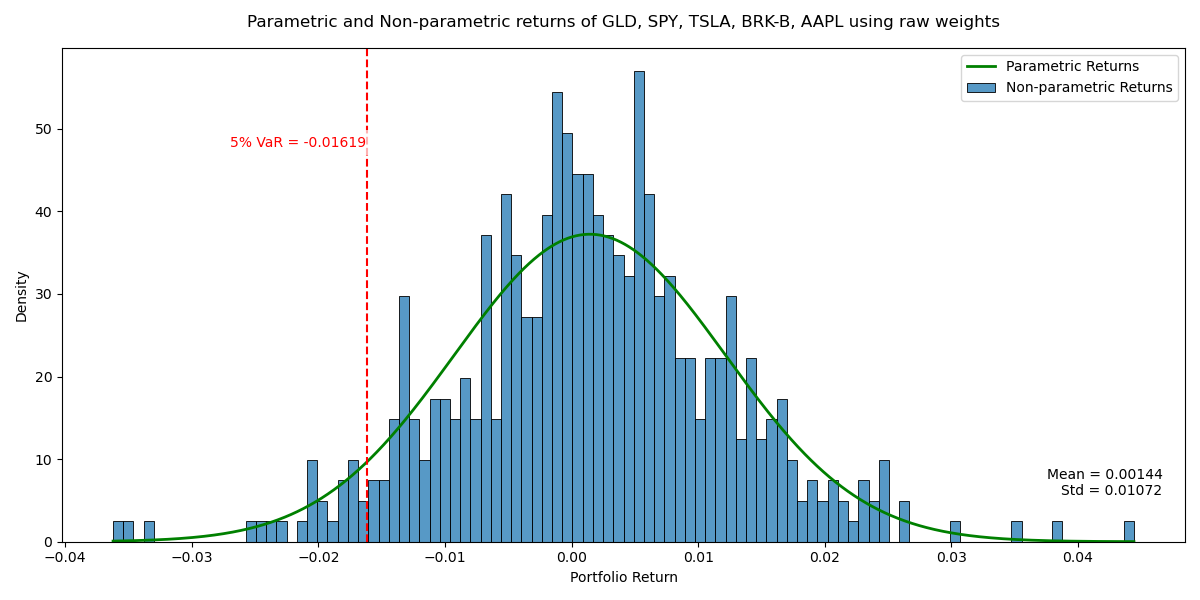
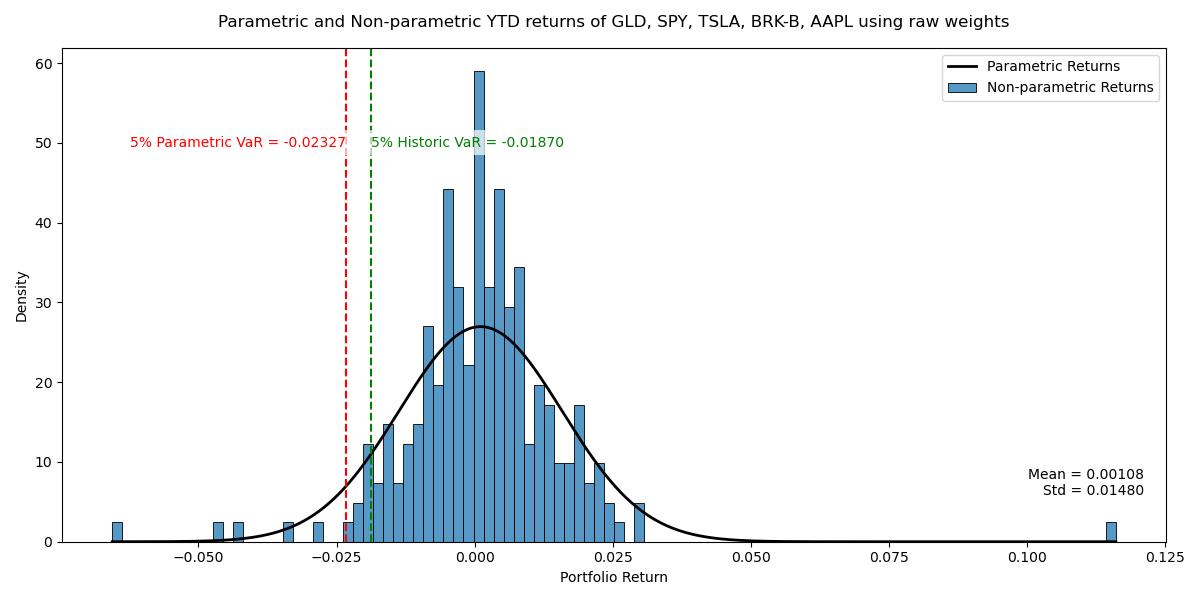
Added color zone, changed plots
Used return_test for plots instead of returns_train

diff --git a/SCRIPTS/stat_methods.py b/SCRIPTS/stat_methods.py
@@ -35,21 +35,39 @@ def parametric_backtest(returns, weights):
     ann_count = np.ceil(percent*252)
     return percent, ann_count
 
+def classify_zone(x):
+    if 0 <= x <= 4:
+        return "Green Zone"
+    elif 5 <= x <= 9:
+        return "Yellow Zone"
+    elif x >= 10:
+        return "Red Zone"
+    else:
+        return ""
+
 def varplots(returns,weights, weight_type, img_path,tickers):
     portfolio_returns = (returns * weights).sum(axis=1)
     mean = portfolio_returns.mean()
     std = portfolio_returns.std()
-    portfolio_var = mean - 1.645 * std
+    portfolio_parametric_var = mean - 1.645 * std
+    portfolio_historic_var = np.percentile(portfolio_returns, 5)
     x = np.linspace(portfolio_returns.min(), portfolio_returns.max(), 1000)
     pdf = norm.pdf(x, mean, std)
     fig, ax = plt.subplots(figsize=(12, 6))
     sns.histplot(portfolio_returns, bins=100, stat='density',label="Non-parametric Returns", ax=ax)
-    ax.plot(x, pdf, linewidth=2, color='green', label='Parametric Returns')
-    ax.axvline(portfolio_var, color='r', linestyle='dashed')
+    ax.plot(x, pdf, linewidth=2, color='black', label='Parametric Returns')
+    ax.axvline(portfolio_parametric_var, color='r', linestyle='dashed')
+    ax.axvline(portfolio_historic_var, color='g', linestyle='dashed')
     ax.text(
-        portfolio_var, ax.get_ylim()[1]*0.8,
-        f"5% VaR = {portfolio_var:.5f}",
+        portfolio_parametric_var, ax.get_ylim()[1]*0.8,
+        f"5% Parametric VaR = {portfolio_parametric_var:.5f}",
         color='r', ha='right', fontsize=10,
+        bbox=dict(facecolor='white', edgecolor='none', alpha=0.7)
+    )
+    ax.text(
+        portfolio_historic_var, ax.get_ylim()[1]*0.8,
+        f"5% Historic VaR = {portfolio_historic_var:.5f}",
+        color='g', ha='left', fontsize=10,
         bbox=dict(facecolor='white', edgecolor='none', alpha=0.7)
     )
     ax.text(
@@ -61,7 +79,7 @@ def varplots(returns,weights, weight_type, img_path,tickers):
         bbox=dict(facecolor='white', alpha=0.7, edgecolor='none')
     )
     ax.set_xlabel("Portfolio Return") 
-    ax.set_title(f'Parametric and Non-parametric returns of '+ f', '.join(tickers) + f' using {weight_type} weights',wrap=True, pad=15)
+    ax.set_title(f'Parametric and Non-parametric YTD returns of '+ f', '.join(tickers) + f' using {weight_type} weights',wrap=True, pad=15)
     ax.legend()
     fig.tight_layout()
     fig.savefig(img_path)

diff --git a/main.py b/main.py
@@ -48,24 +48,31 @@ returns = data.pct_change().dropna()
 raw_exception_pct, raw_exception_ann_count = sm.parametric_backtest(returns, weights_prior)
 opt_exception_pct, opt_exception_ann_count = sm.parametric_backtest(returns, weights_optimal)
 
+raw_zone = sm.classify_zone(raw_exception_ann_count)
+opt_zone = sm.classify_zone(opt_exception_ann_count)
+
 backtest_metrics = pd.DataFrame({
     'Metric': ['Raw Portfolio Historical VaR %',
                'Raw Portfolio Parametric VaR %',
                'Raw Portfolio Exception %', 
-               'Raw Portfolio Annual Exception Count', 
+               'Raw Portfolio Annual Exception Count',
+               'Raw Portfolio Model Zone', 
                'Optimised Portfolio Historical VaR %',
                'Optimised Portfolio Parametric VaR %',
                'Optimised Portfolio Exception %', 
-               'Optimised Portfolio Annual Exception Count'
+               'Optimised Portfolio Annual Exception Count',
+               'Optimised Portfolio Model Zone'
                ],
     'Value': [round(raw_historical_var,4)*100,
               round(raw_parametric_var,4)*100,
               round(raw_exception_pct,4)*100, 
               raw_exception_ann_count,
+              raw_zone,
               round(opt_historical_var,4)*100,
               round(opt_parametric_var,4)*100,
               round(opt_exception_pct,4)*100, 
-              opt_exception_ann_count
+              opt_exception_ann_count,
+              opt_zone
               ]
 })
 backtest_metrics.to_csv("DATA/backtest_metrics.csv", index=False)
@@ -73,5 +80,5 @@ backtest_metrics.to_csv("DATA/backtest_metrics.csv", index=False)
 #Plotting 
 raw_img_path = "DATA/portfolio_raw_plot.png"
 opt_img_path = "DATA/portfolio_optimised_plot.png"
-raw_portfolio_plot = sm.varplots(returns_train,weights_prior, "raw",raw_img_path,TICKERS)
-optimised_portfolio_plot = sm.varplots(returns_train,weights_optimal,"optimised",opt_img_path,TICKERS)
+raw_portfolio_plot = sm.varplots(returns_test,weights_prior, "raw",raw_img_path,TICKERS)
+optimised_portfolio_plot = sm.varplots(returns_test,weights_optimal,"optimised",opt_img_path,TICKERS)
